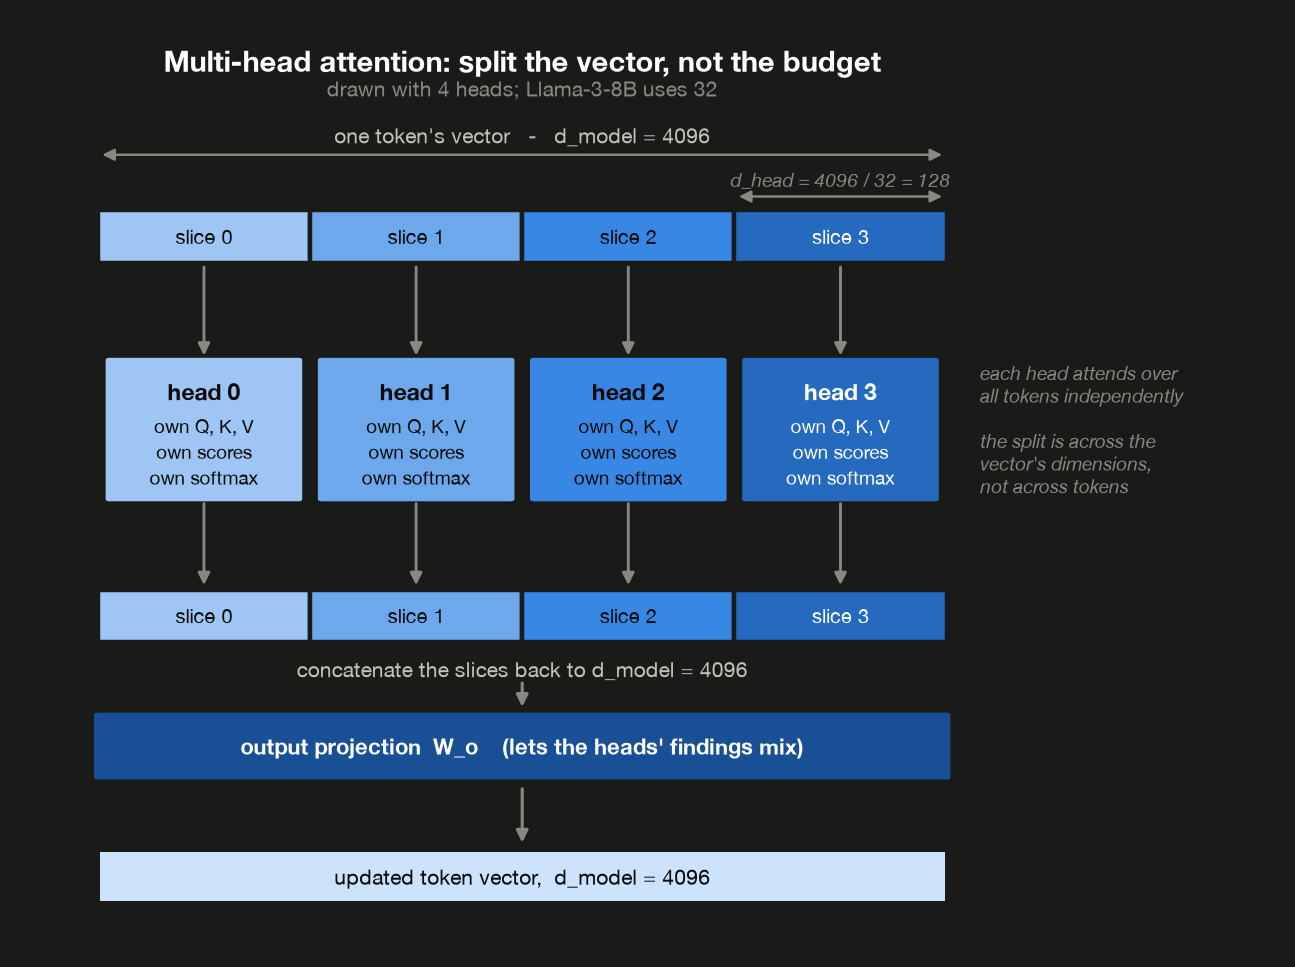
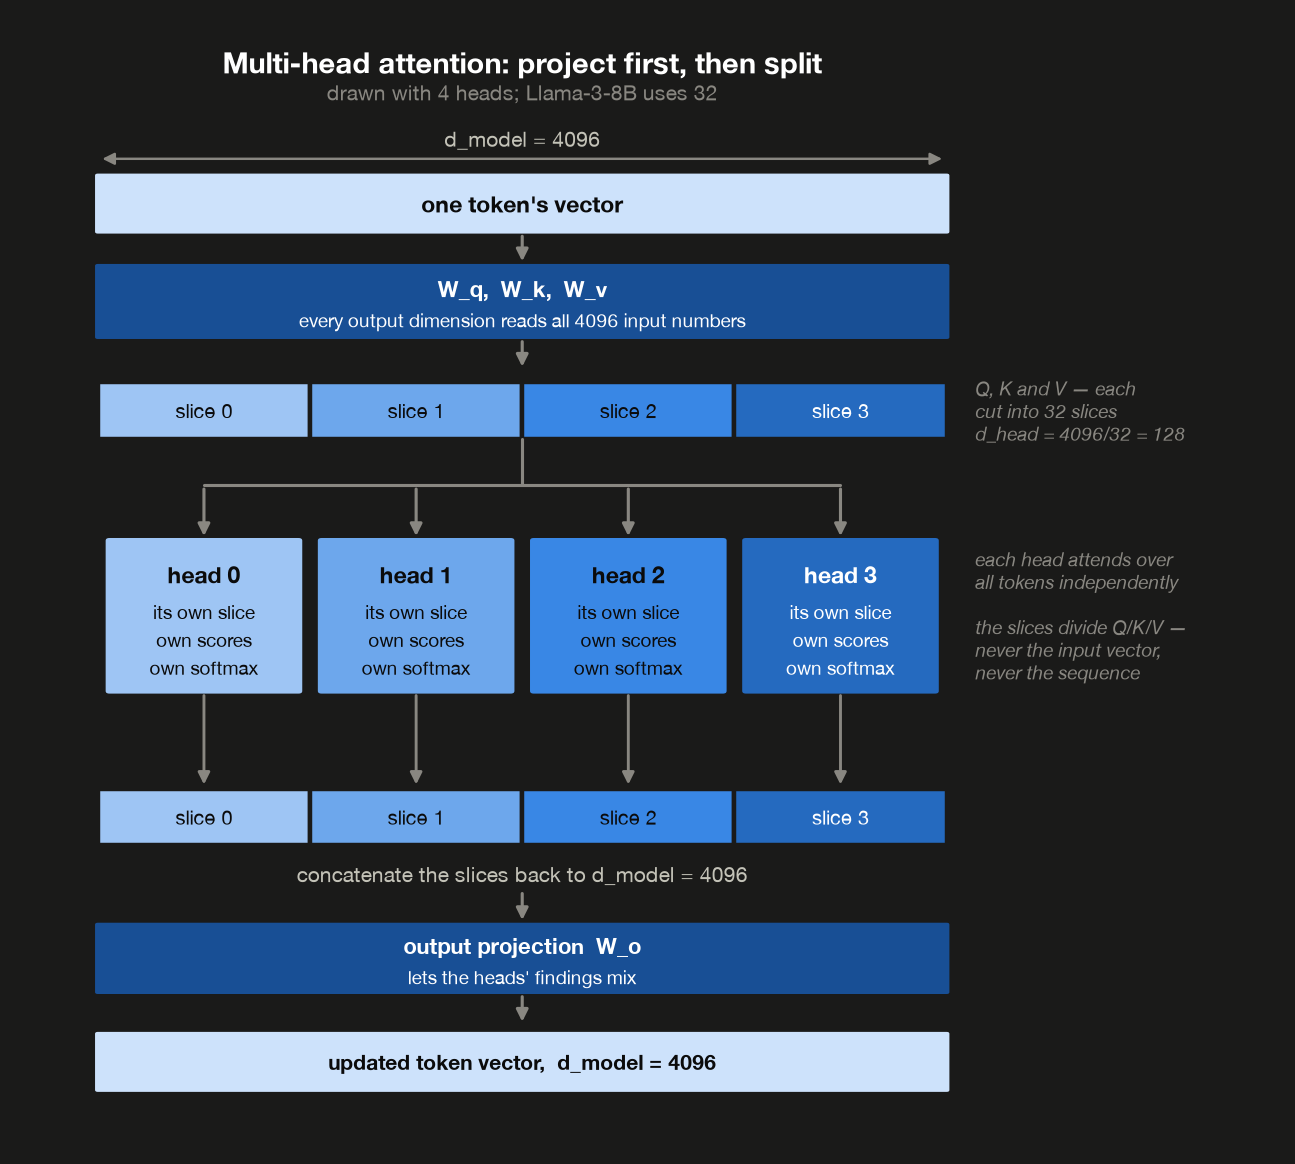
Post 1: correct what a head is a slice of
The post said a head works on "a slice of the vector" and described cutting the
vector up before projecting, which implies each head only sees 128 of the
input's dimensions. It does not: Q, K and V are each projected to full width
from the entire input, and the slicing happens after.

Replaces the description with the four-step ordering, states the equivalent
column-of-W_q view, and names what the wrong reading would actually be — an
architecture where no head could see a feature stored outside its own chunk.
The misreading note now covers both axes: not the sequence, and not the input.

diff --git a/_posts/2026-08-01-llm-architectures-attention-and-rope.md b/_posts/2026-08-01-llm-architectures-attention-and-rope.md
@@ -57,16 +57,30 @@ You'll see "multi-head attention" everywhere, so it's worth being concrete about
 
 The problem with running attention just once is that **a softmax produces exactly one set of weights**. One opinion about which tokens matter. But a token usually needs several unrelated things at the same time — what noun this pronoun refers to, which verb governs this subject, which adjective modifies this noun. Forcing all of that through a single weighting gives you a blurry average of all three.
 
-A **head** is one independent copy of the attention mechanism, working on a *slice* of the vector. Rather than run attention once on all 4,096 numbers, you cut the vector into (say) 32 slices of 128 numbers each. Each slice gets its own Q, K and V projections, computes its own scores, and produces its own answer about where to look. The 32 results are glued back together into a 4,096-vector and mixed by one final matrix.
+A **head** is one independent copy of the attention mechanism, working on a 128-dimensional *slice of Q, K and V*. The order of operations matters here and is the detail most explanations blur, so let's be exact:
+
+1. The token's full 4,096-number vector is projected into Q, K and V. Each projection is a $4096 \times 4096$ matrix, so **Q, K and V are each 4,096 numbers wide**, and every one of those numbers is a learned combination of *all* 4,096 inputs.
+2. *Then* Q, K and V are each cut into 32 slices of 128.
+3. Head $h$ takes slice $h$ of Q, slice $h$ of K and slice $h$ of V, and runs a complete attention pass on them.
+4. The 32 results are concatenated back to 4,096 and mixed by a final matrix, $W_o$.
 
 $$
 d_{model} = n_{heads} \times d_{head} \qquad 4096 = 32 \times 128
 $$
 
+The distinction worth holding onto: **what gets sliced is Q/K/V, not the input.** A head does not receive 128 numbers of the token's vector and project those. Its 128 query dimensions are each computed from the entire 4,096-number input. Equivalently — and this is the cleaner way to say it — head $h$ owns the 128 columns of $W_q$, $W_k$ and $W_v$ that produce its slice, and those columns read the whole vector.
+
+That equivalence is why you'll see the mechanism described both ways. "Project everything, then reshape into heads" is what the code does; "each head has its own smaller projections" is what the math says. They're the same computation. What would be a genuinely *different* (and much weaker) architecture is chopping the input into 128-number chunks and giving each head only its chunk — no head could then see a feature stored in a dimension outside its range.
+
 ![Multi-head attention: splitting the vector across heads](/assets/picture/2026-08-01-llm-architectures-attention-and-rope/multi-head-light.png){: .light width="1000" }
 ![Multi-head attention: splitting the vector across heads](/assets/picture/2026-08-01-llm-architectures-attention-and-rope/multi-head-dark.png){: .dark width="1000" }
 
-The single most common misreading of that picture is worth heading off: **the slices divide the vector's dimensions, not the sequence.** Every head still sees every token. Head 3 doesn't get "the last quarter of the sentence" — it gets dimensions 384–511 of *all* the tokens, and runs a complete attention pass over the whole sequence using only those dimensions.
+Two misreadings of that picture are worth heading off, and they're the two axes you could wrongly imagine being divided:
+
+- **Not the sequence.** Every head sees every token. Head 3 doesn't get "the last quarter of the sentence"; it runs a complete attention pass over the whole sequence.
+- **Not the input vector.** Head 3 doesn't get input dimensions 384–511 either. It gets dimensions 384–511 *of Q, K and V*, each of which was computed from all 4,096 input dimensions.
+
+The slicing happens strictly after the projection — which is exactly why the middle band in the diagram exists.
 
 The final `W_o` matters too, and it's easy to skip past. Without it you'd have 32 heads' outputs sitting in 32 disjoint stretches of the vector, never able to influence one another. `W_o` mixes them, so what one head found can combine with what another found.
 
